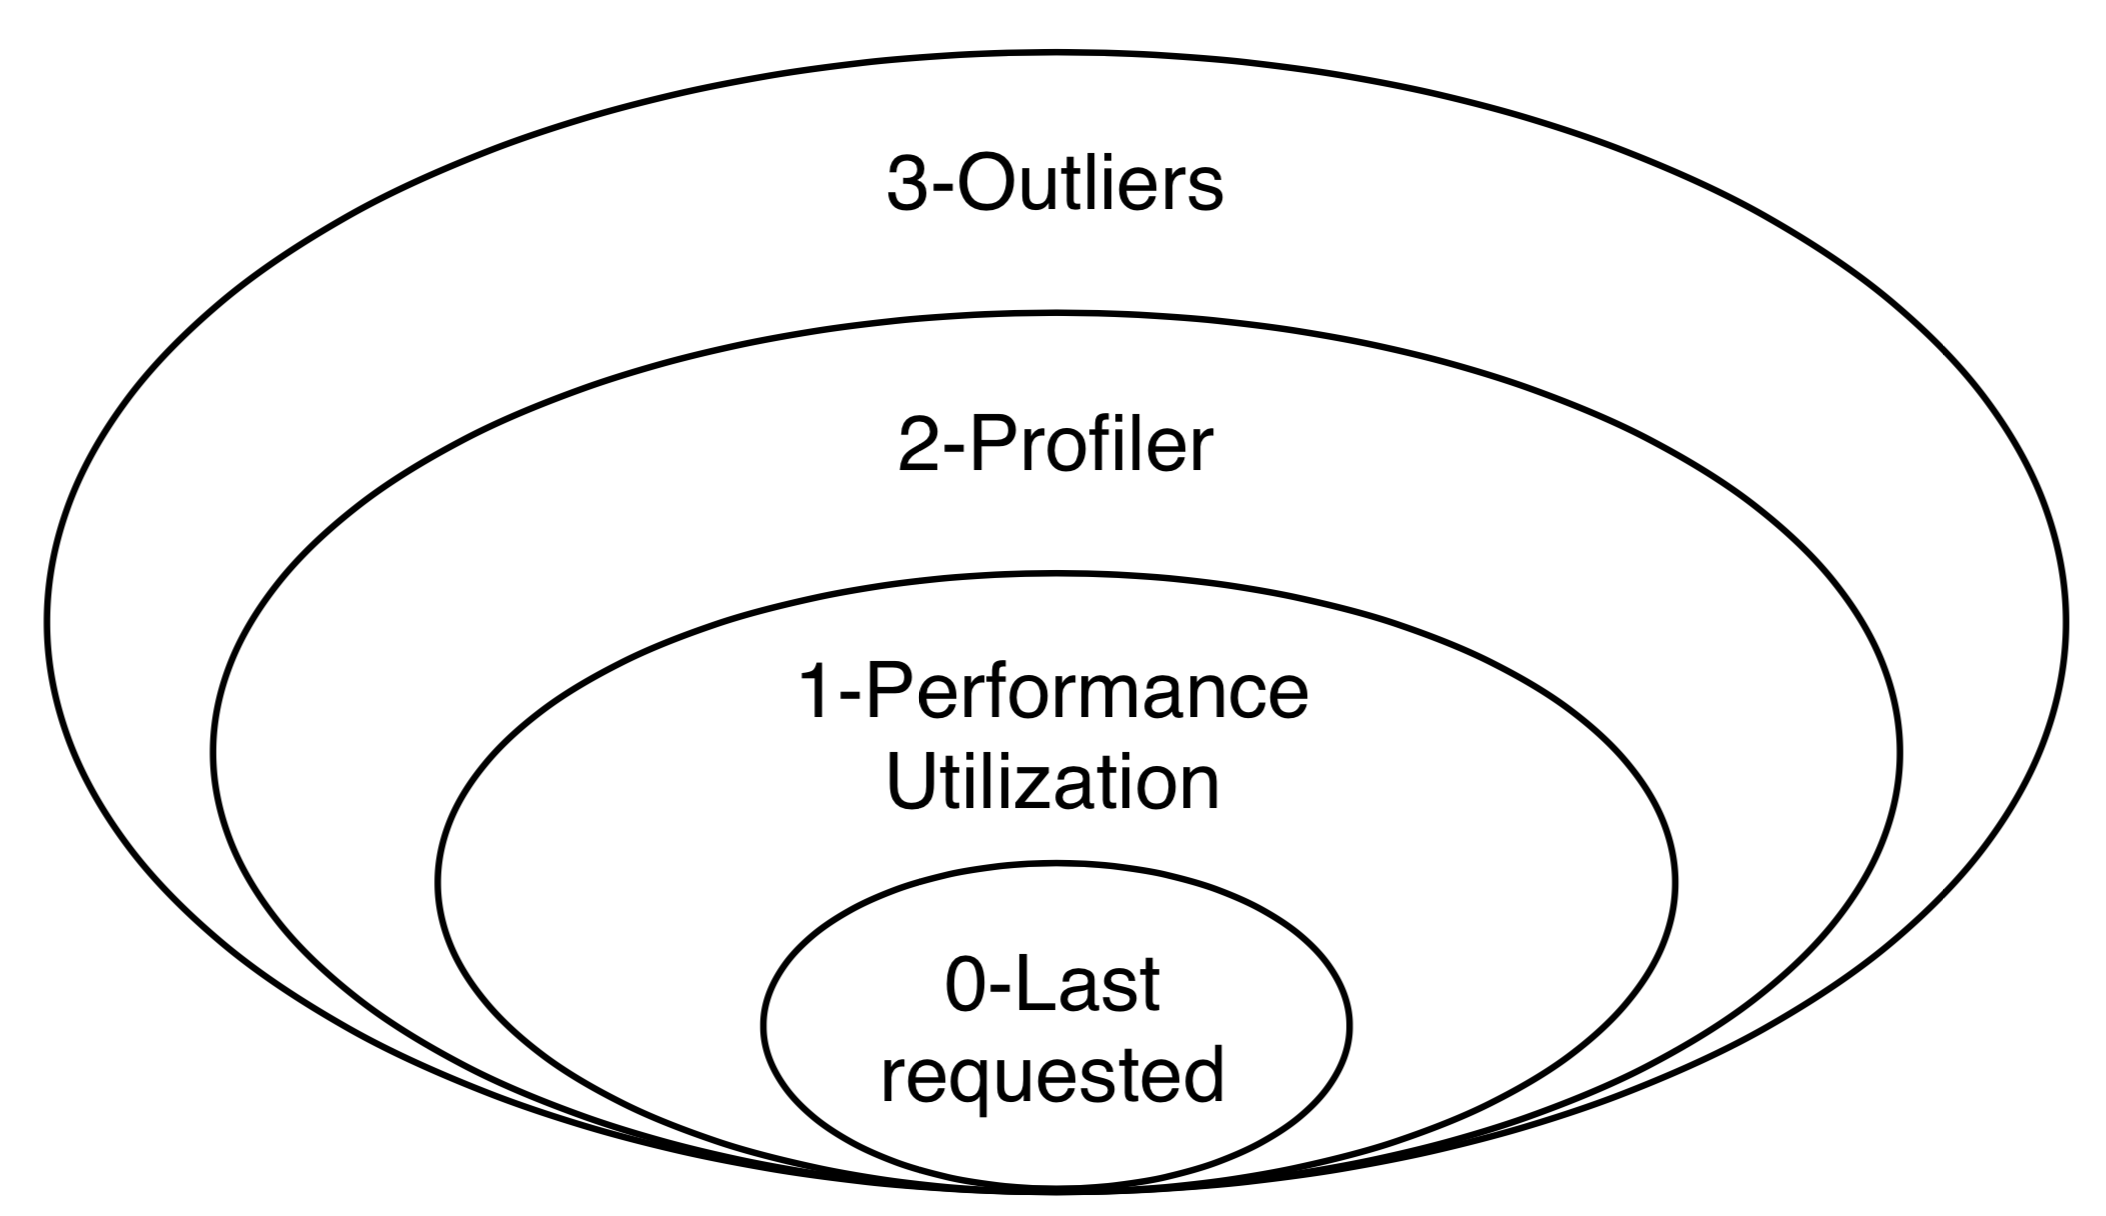
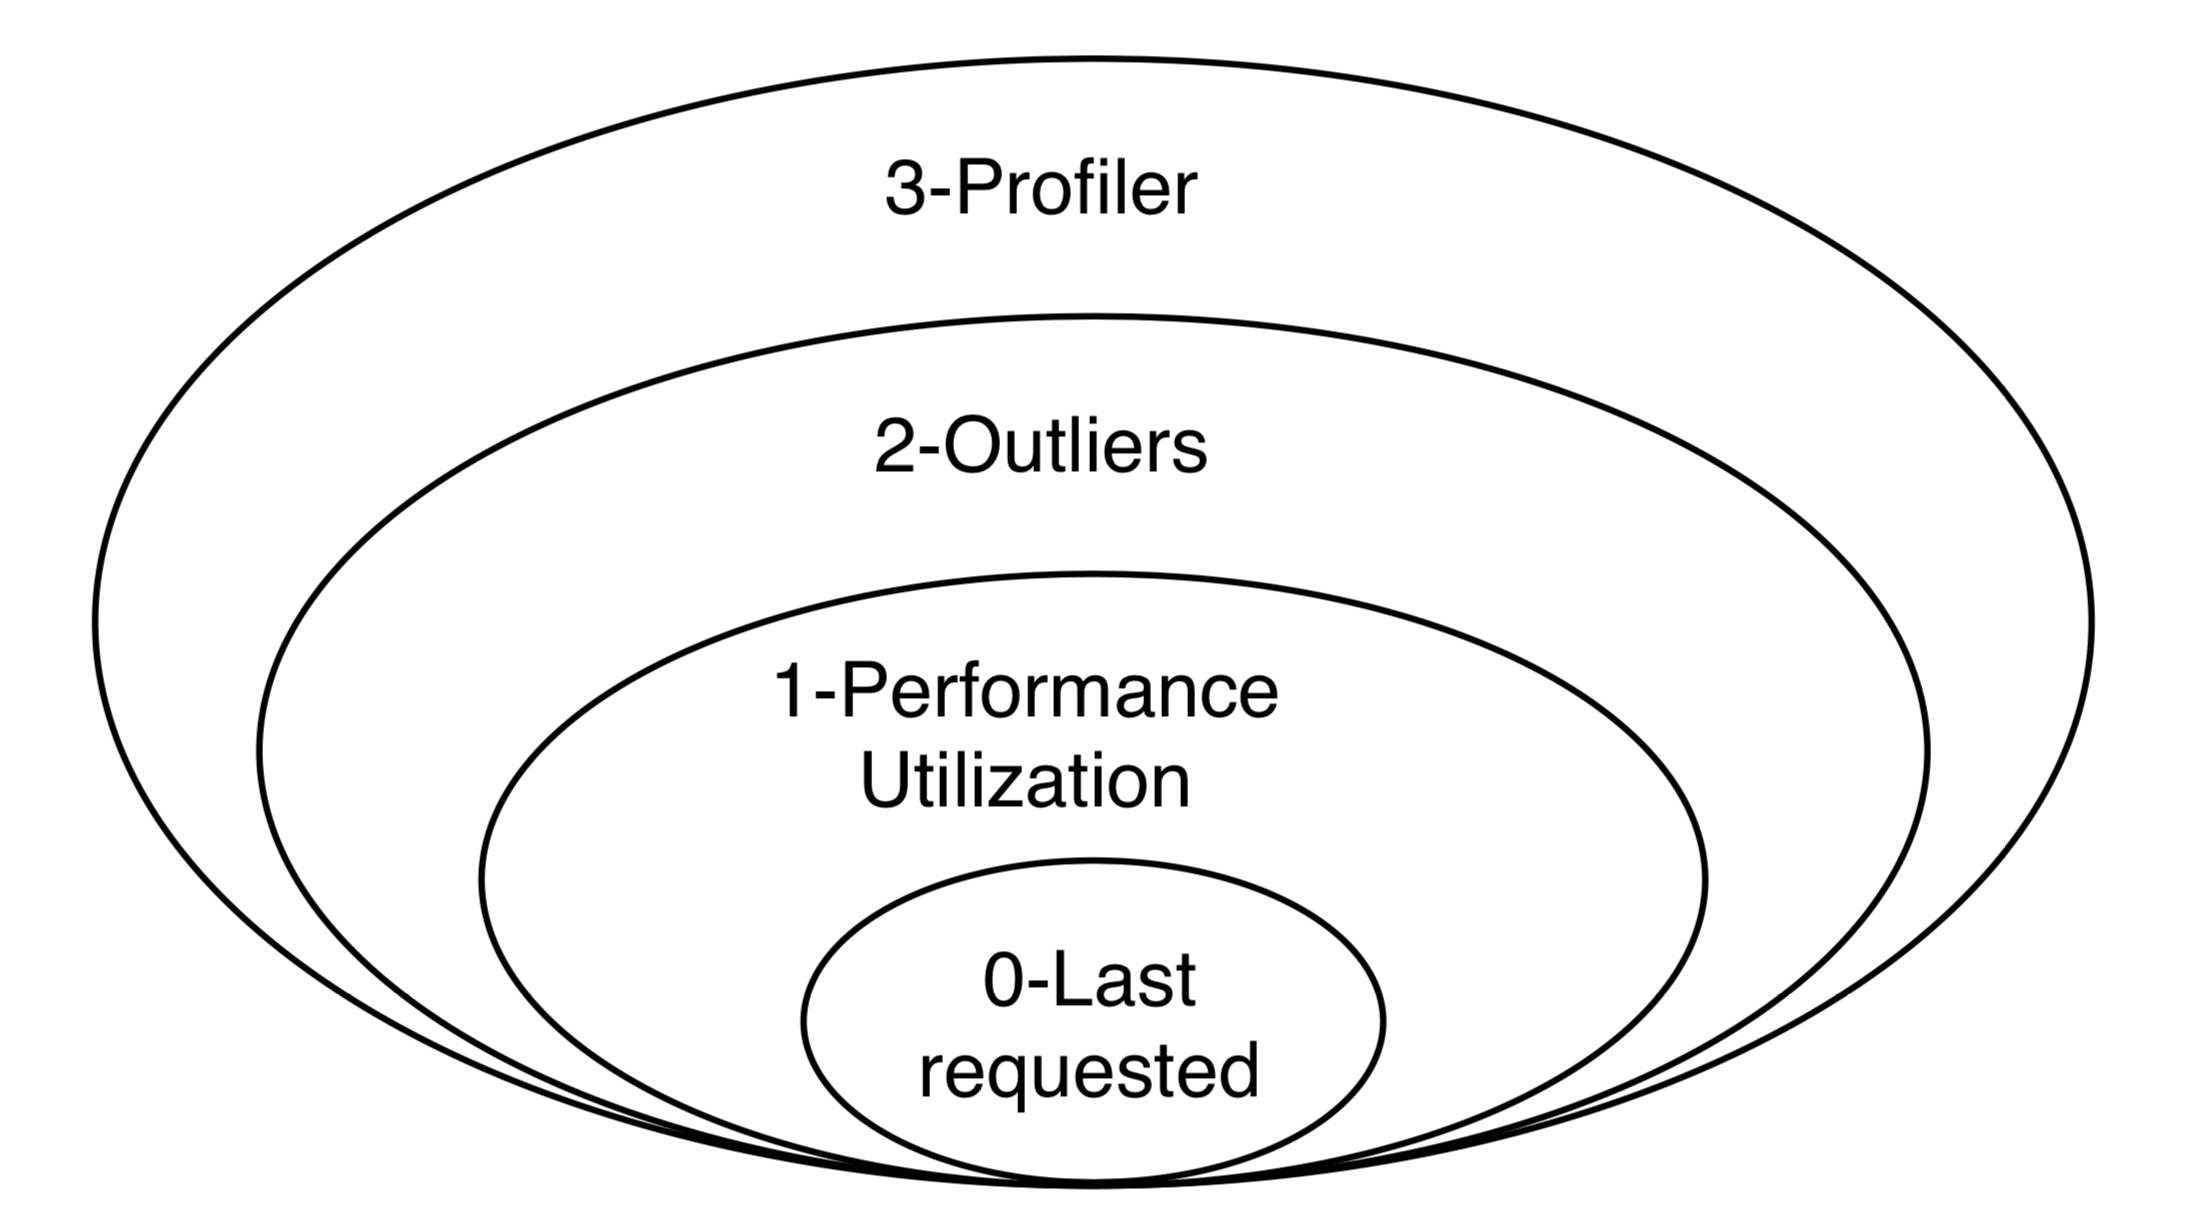
updated docs

diff --git a/flask_monitoringdashboard/static/pages/overview.html b/flask_monitoringdashboard/static/pages/overview.html
@@ -81,11 +81,11 @@
             <p>When the monitoring-level is set to 0, you don't monitor anything about the performance of this endpoint.
                 The only data that is stored is when the <b>endpoint is last requested.</b></p><b>1 - Performance</b>
             <p>When the monitoring-level is set to 1, you collect data when the endpoint is last requested, plus data
-                about the <b>performance and utilization</b> of this endpoint (as a black-box).</p><b>2 - Profiler</b>
-            <p>When the monitoring-level is set to 2, you get all the functionality from 1, plus data about the <b>performance
-                per line of code</b> from all requests.</p><b>3 - Profiler + Outliers</b>
-            <p>When the monitoring-level is set to 3, you get all the functionality from 2, including <b>more data if a
-                request is an outlier.</b>
+                about the <b>performance and utilization</b> of this endpoint (as a black-box).</p><b>2 - Outliers</b>
+            <p>When the monitoring-level is set to 2, you get all the functionality from 1, plus <b>extra information
+                if the request is an outlier.</b></p><b>3 - Profiler + Outliers</b>
+            <p>When the monitoring-level is set to 3, you get all the functionality from 2, plus data about the <b>performance
+                per line of code</b> from all requests.</p>
         </div>
     </div>
 </div>

diff --git a/flask_monitoringdashboard/database/__init__.py b/flask_monitoringdashboard/database/__init__.py
@@ -23,7 +23,7 @@ class Endpoint(Base):
     id = Column(Integer, primary_key=True)
     # name of the endpoint
     name = Column(String(250), unique=True, nullable=False)
-    # 0 - disabled, 1 - performance, 2 - profiler, 3 - profiler + outliers
+    # 0 - disabled, 1 - performance, 2 - outliers, 3 - profiler + outliers
     monitor_level = Column(Integer, default=config.monitor_level)
     # the time when the endpoint was added
     time_added = Column(DateTime, default=datetime.datetime.utcnow)

diff --git a/docs/functionality.rst b/docs/functionality.rst
@@ -112,42 +112,9 @@ that endpoint. The following data is recorded:
      print(request.environ['REMOTE_ADDR'])
 
 
-Monitoring Level 2 - Profiler
+Monitoring Level 2 - Outliers
 ~~~~~~~~~~~~~~~~~~~~~~~~~~~~~~~~~~~~~~~~~~~~~~~~~~~~~~~~~~~
-When the monitoring level is set to 2, the Dashboard performs a
-`statistical profiling <https://docs.python.org/3/library/profile.html#what-is-deterministic-profiling>`_
-of all the requests coming to that endpoint. What this means is that another
-thread will be launched in parallel with the one processing the request, it
-will periodically sample the processing thread, and will analyze its current stack
-trace. Using this information, the Dashboard will infer how long every function
-call inside the endpoint code takes to execute.
-
-The profiler is one of the most powerful features of the Dashboard, pointing to
-where your optimization efforts should be directed, one level of abstraction
-lower than the performance monitoring of Level 1. To access this information,
-you have to:
-
-1. Go to the Overview tab in the left menu: http://localhost:5000/dashboard/overview
-
-2. Select an endpoint for which the monitoring level is or was at some point at least 2.
-
-3. Go to the Profiler tab: http://localhost:5000/dashboard/endpoint/:endpoint_id:/profiler
-
-4. Go to the Grouped Profiler tab: http://localhost:5000/dashboard/endpoint/:endpoint_id:/grouped-profiler
-
-The Profiler tab shows all individual profiled requests of an endpoint
-in the form of a execution tree. Each code line is displayed along with
-its execution time and its share of the total execution time of the request.
-
-The Grouped Profiler tab shows the merged execution of up to 100 most recent
-profiled requests of an endpoint. This is displayed both as a table and as
-a Sunburst graph. The table shows for each code line information about
-the Hits (i.e. how many times it has been executed), average execution time
-and standard deviation, and also total execution time.
-
-Monitoring Level 3 - Outliers
-~~~~~~~~~~~~~~~~~~~~~~~~~~~~~~~~~~~~~~~~~~~~~~~~~~~~~~~~~~~
-When the monitoring level is set to 3, the Dashboard collects extra information
+When the monitoring level is set to 2, the Dashboard collects extra information
 about slow requests.
 
 It is useful to investigate why certain requests take way longer to process than other requests.
@@ -181,6 +148,41 @@ The data that is collected from outliers, can be seen by the following procedure
 2. Click the endpoint for which you want to see the Outlier information.
 
 3. Go to the Outliers tab: http://localhost:5000/dashboard/endpoint/:endpoint_id:/outliers
+
+
+Monitoring Level 3 - Profiler
+~~~~~~~~~~~~~~~~~~~~~~~~~~~~~~~~~~~~~~~~~~~~~~~~~~~~~~~~~~~
+When the monitoring level is set to 3, the Dashboard performs a
+`statistical profiling <https://docs.python.org/3/library/profile.html#what-is-deterministic-profiling>`_
+of all the requests coming to that endpoint. What this means is that another
+thread will be launched in parallel with the one processing the request, it
+will periodically sample the processing thread, and will analyze its current stack
+trace. Using this information, the Dashboard will infer how long every function
+call inside the endpoint code takes to execute.
+
+The profiler is one of the most powerful features of the Dashboard, pointing to
+where your optimization efforts should be directed, one level of abstraction
+lower than the performance monitoring of Level 1. To access this information,
+you have to:
+
+1. Go to the Overview tab in the left menu: http://localhost:5000/dashboard/overview
+
+2. Select an endpoint for which the monitoring level is or was at some point at least 2.
+
+3. Go to the Profiler tab: http://localhost:5000/dashboard/endpoint/:endpoint_id:/profiler
+
+4. Go to the Grouped Profiler tab: http://localhost:5000/dashboard/endpoint/:endpoint_id:/grouped-profiler
+
+The Profiler tab shows all individual profiled requests of an endpoint
+in the form of a execution tree. Each code line is displayed along with
+its execution time and its share of the total execution time of the request.
+
+The Grouped Profiler tab shows the merged execution of up to 100 most recent
+profiled requests of an endpoint. This is displayed both as a table and as
+a Sunburst graph. The table shows for each code line information about
+the Hits (i.e. how many times it has been executed), average execution time
+and standard deviation, and also total execution time.
+
 
 
 2. Data Visualization
